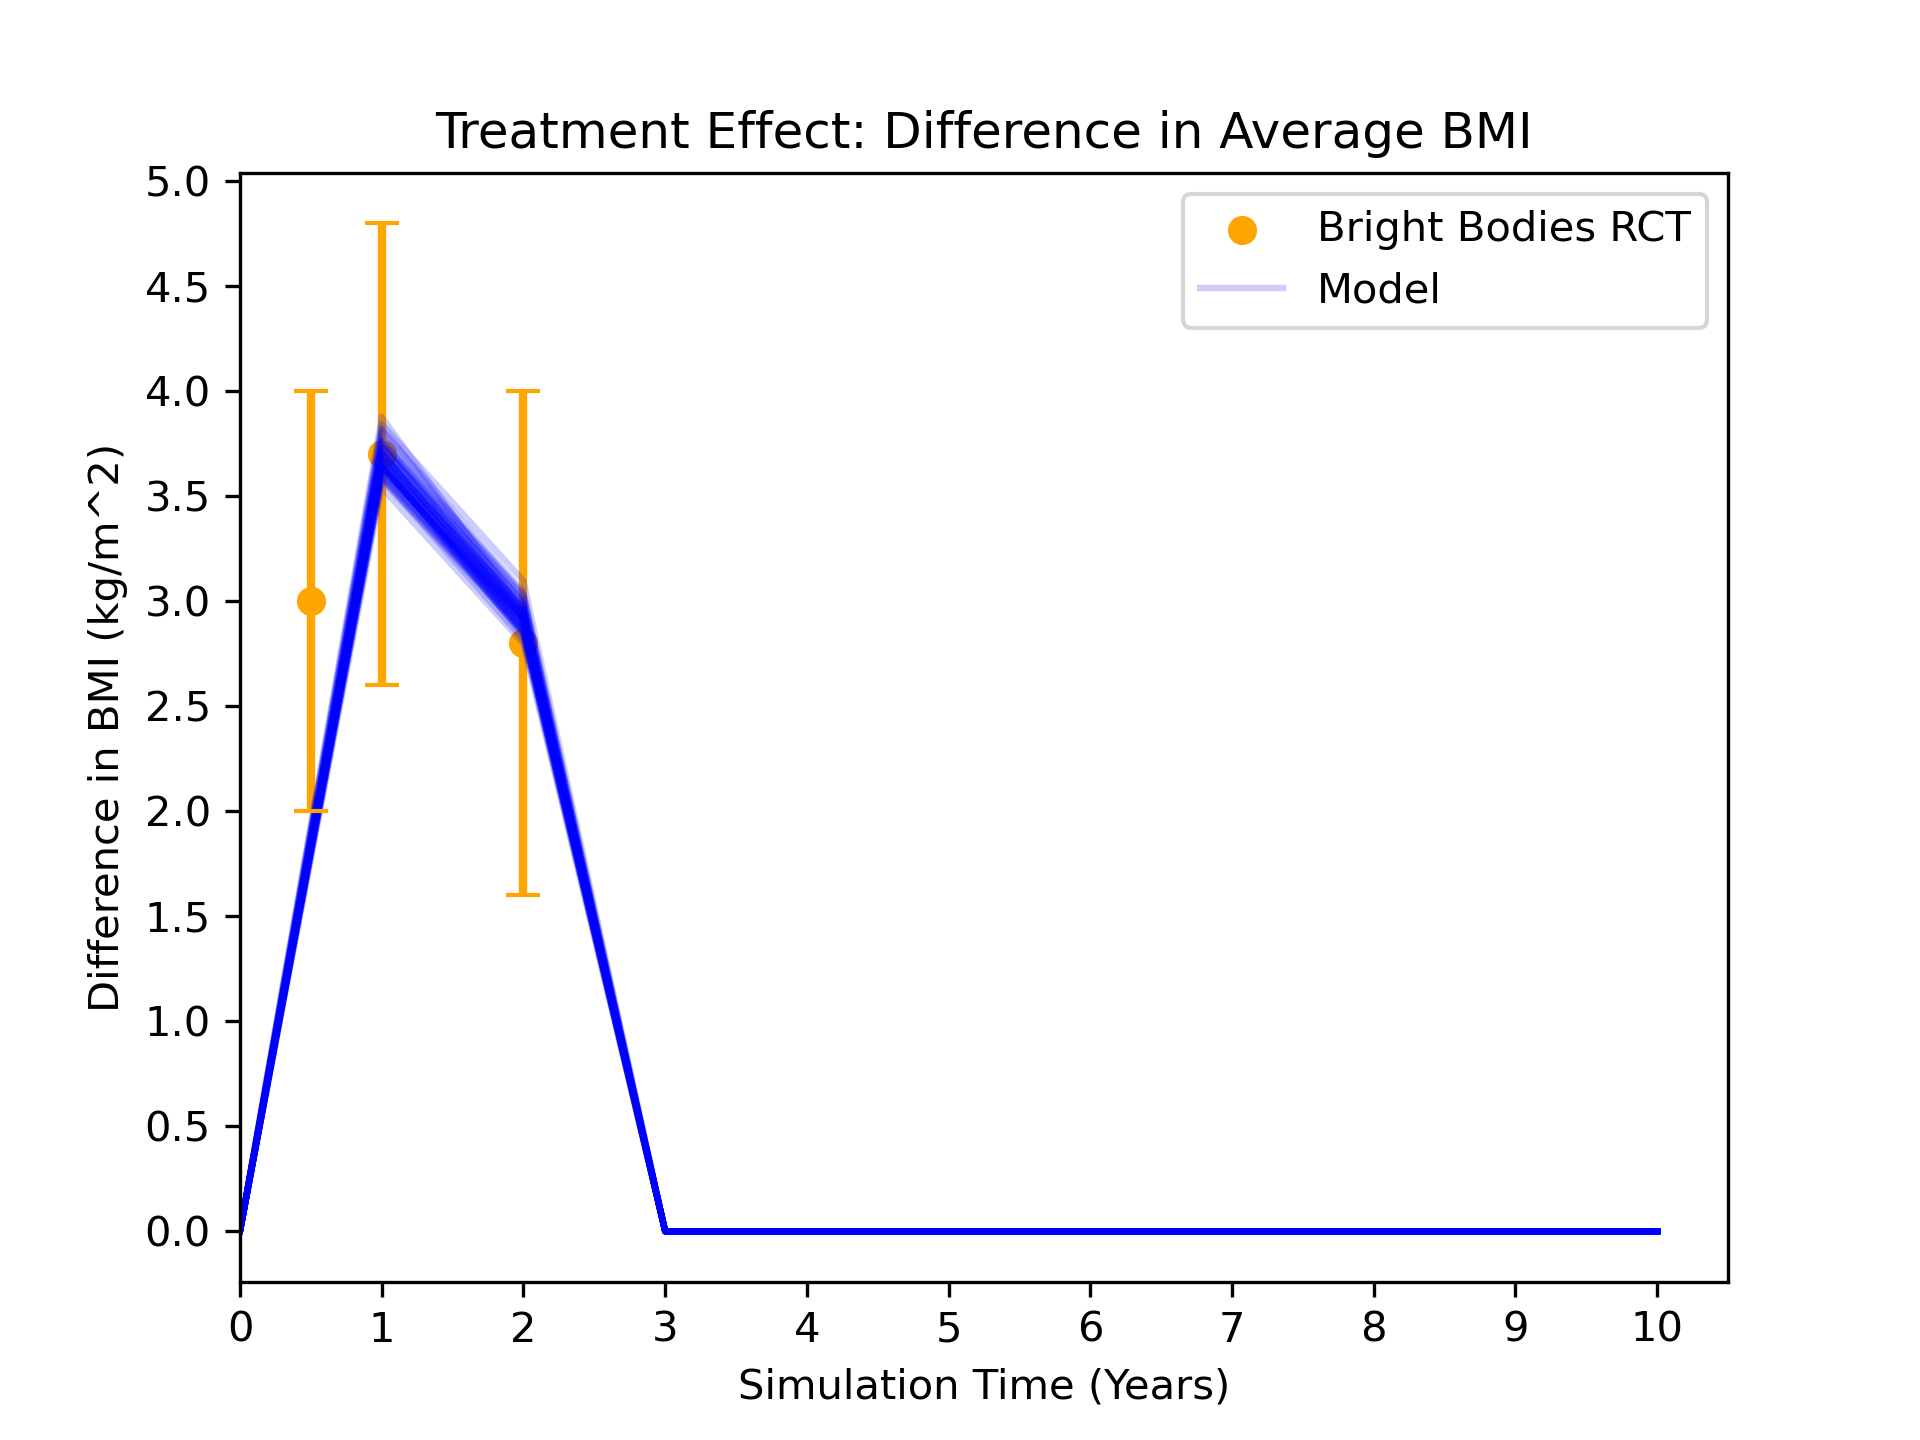
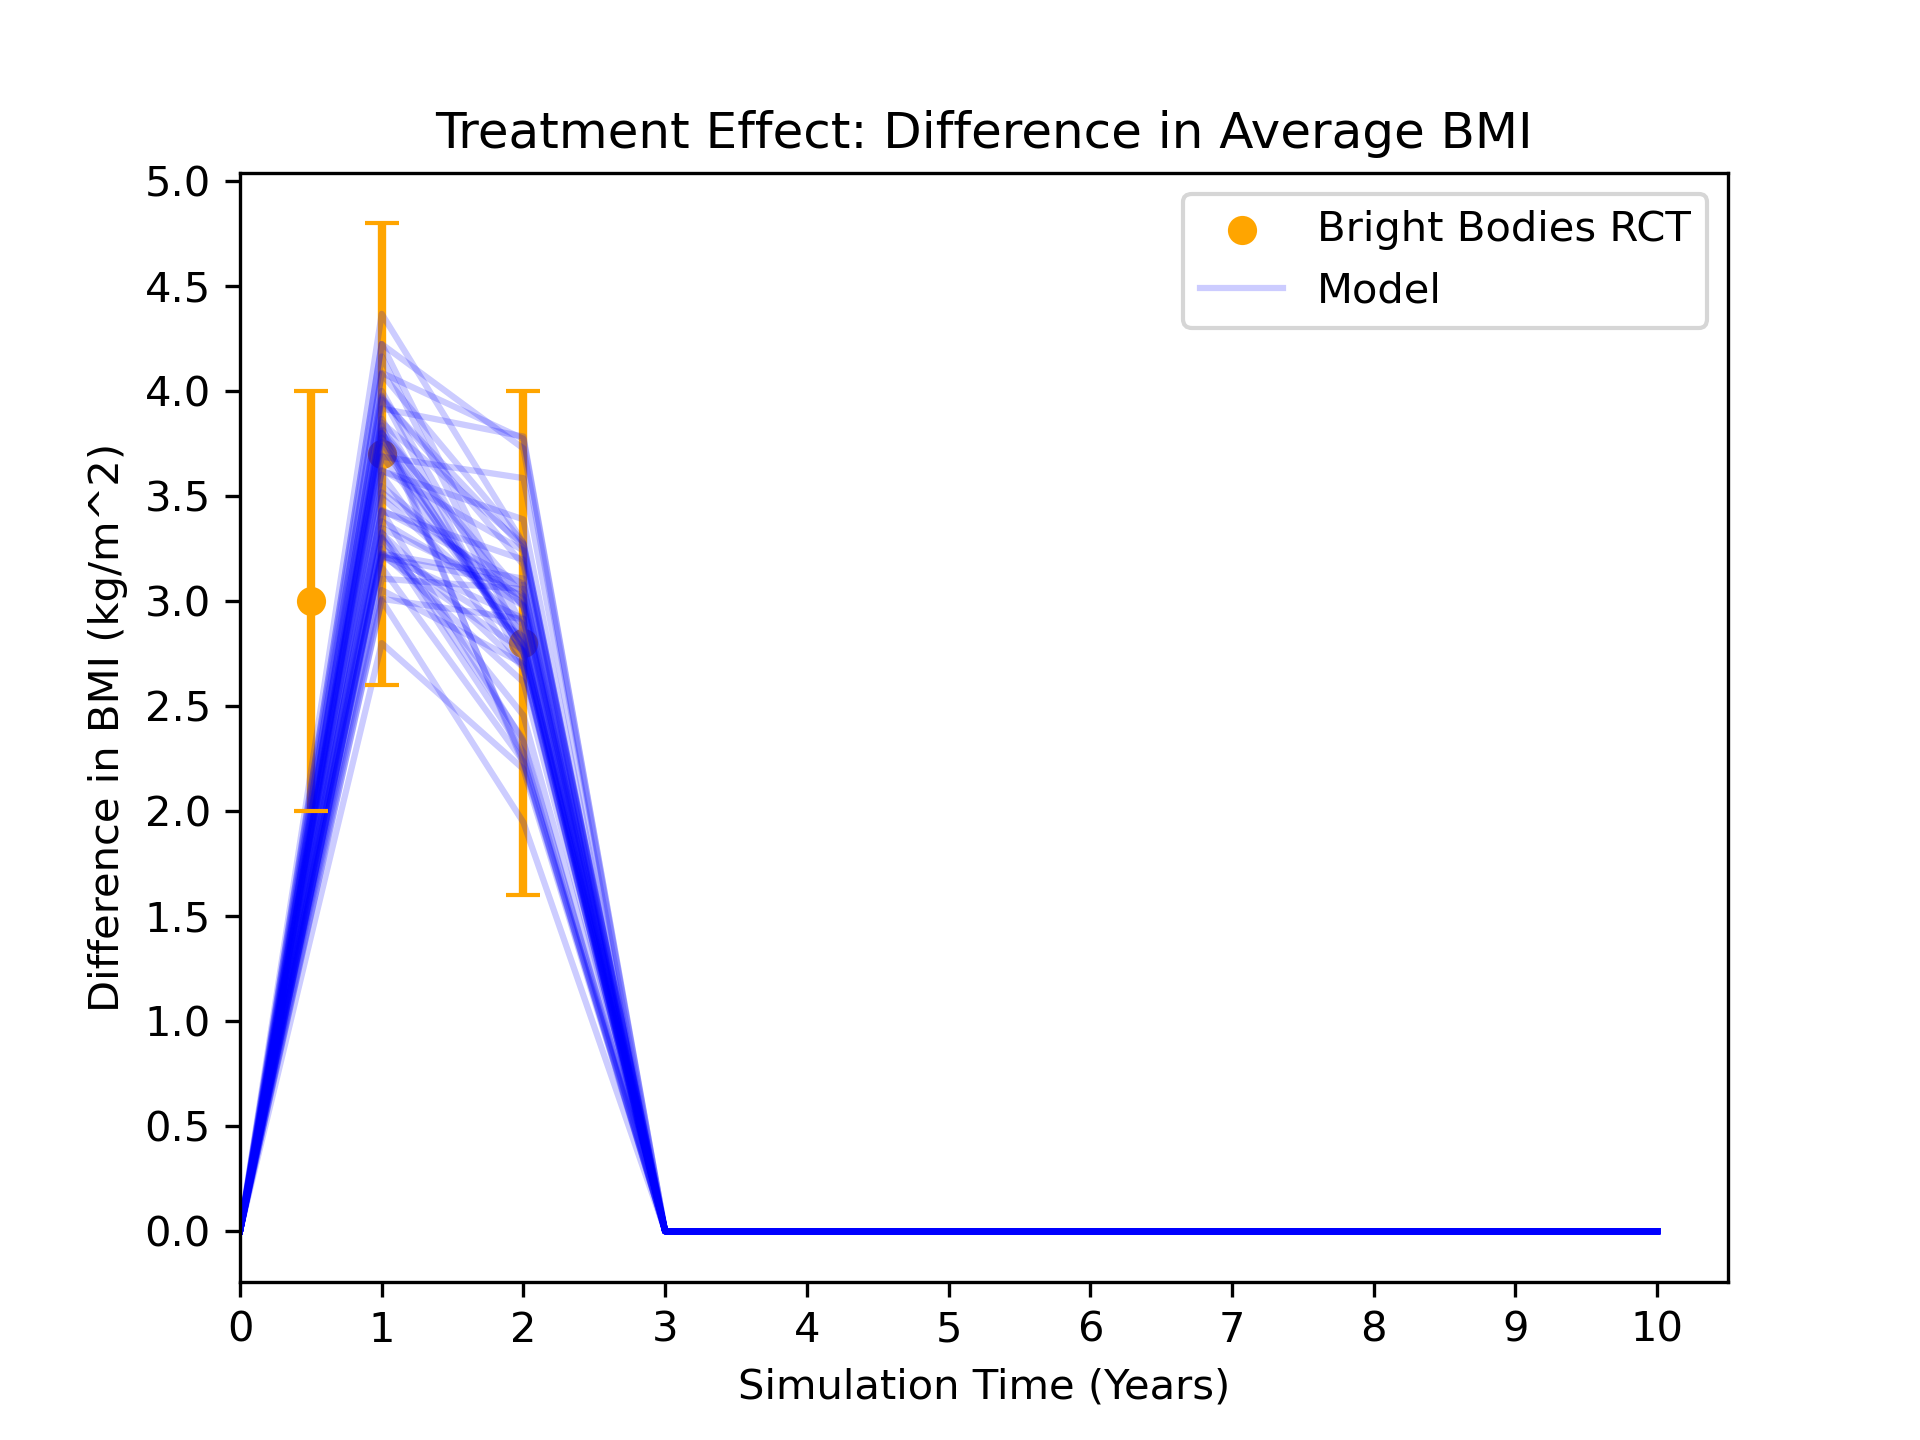
parameters done

Changed region(s): [[0.125, 0.2188, 0.3438, 0.8125]]

diff --git a/source/ModelParameters.py b/source/ModelParameters.py
@@ -36,37 +36,16 @@ class Parameters:
         self.costAbove95thP = 0
         self.costBelow95thP = 0
         self.costPerUnitBMIAdultP = 0
-
-        # intervention multipliers to reduce BMI over time
-        self.interventionMultipliers = []
-        if intervention == D.Interventions.BRIGHT_BODIES:
-
-            if maintenance_scenario == D.EffectMaintenance.FULL:
-                self.interventionMultipliers = [1.0, D.multBBYear1, D.multBBYear2]
-                for i in range(10):
-                    self.interventionMultipliers.append(D.multBBYear2)
-
-            elif maintenance_scenario == D.EffectMaintenance.NONE:
-                self.interventionMultipliers = [1.0, D.multBBYear1, D.multBBYear2]
-                for i in range(10):
-                    self.interventionMultipliers.append(D.multCC)
-
-            elif maintenance_scenario == D.EffectMaintenance.DEPREC:
-                self.interventionMultipliers = [1.0, D.multBBYear1, D.multBBYear2]
-                for i in range(10):
-                    deprec_difference = D.multCC - D.multBBYear2
-                    deprec_value = deprec_difference / 8
-                    deprec_multiplier = D.multBBYear2 + (deprec_value * i)
-                    self.interventionMultipliers.append(deprec_multiplier)
-
-        else: # under control
-            self.interventionMultipliers = [1]
-            for i in range(10):
-                self.interventionMultipliers.append(D.multCC)
+        self.interventionMultipliers = [] # multipliers to adjust BMI trajectories
 
 
 class CostParamRVGs:
+    # class to contain the random variate generators of cost parameters
+
     def __init__(self, dict_of_cost_parameters):
+        """
+        :param dict_of_cost_parameters: dictionary of cost parameters
+        """
 
         self.dictOfRVGs = {}
         for key, mean_stdev in dict_of_cost_parameters.items():
@@ -83,16 +62,54 @@ class CostParamRVGs:
                 self.dictOfRVGs[key] = RVGs.Constant(value=0)
 
     def get_sample(self, cost_item_name, rng):
-
+        """
+        :param cost_item_name: name of the cost item to get a sample for
+        :param rng: random number generator
+        :return: a sample from the distribution of the cost item specified
+        """
         return self.dictOfRVGs[cost_item_name].sample(rng)
 
     def get_total(self, rng):
-
+        """
+        :param rng: random number generator
+        :return: sum of samples from all cost items
+        """
         total = 0
         for key, rvg in self.dictOfRVGs.items():
             total += rvg.sample(rng)
 
         return total
+
+
+class MultiplierParamRVGs:
+    # class to contain the random variate generators of multiplier parameters to adjust BMI trajectories
+
+    def __init__(self, dict_of_cost_parameters):
+        """
+        :param dict_of_cost_parameters: dictionary of cost parameters
+        """
+
+        self.dictOfRVGs = {}
+        for key, mean_stdev in dict_of_cost_parameters.items():
+
+            # fit a log-normal distribution (only if mean > 0)
+            if mean_stdev[0] > 0:
+                fit_output = RVGs.LogNormal.fit_mm(mean=mean_stdev[0], st_dev=mean_stdev[1])
+                # store the log-normal RVG
+                self.dictOfRVGs[key] = RVGs.LogNormal(mu=fit_output["mu"],
+                                                      loc=0,
+                                                      sigma=fit_output["sigma"])
+            else:
+                # use a constant
+                self.dictOfRVGs[key] = RVGs.Constant(value=0)
+
+    def get_sample(self, multiplier_name, rng):
+        """
+        :param multiplier_name: name of the multiplier to get a sample for
+        :param rng: random number generator
+        :return: a sample from the distribution of the multiplier specified
+        """
+        return self.dictOfRVGs[multiplier_name].sample(rng)
 
 
 class ParamGenerator:
@@ -104,25 +121,64 @@ class ParamGenerator:
         # get BMI trajectories
         self.trajectories = T.get_trajectories()
 
+        # make dictionaries of RVGs for multipliers to adjust trajectories
+        self.multiplierRVGs = MultiplierParamRVGs(
+            dict_of_cost_parameters=Data.DICT_MULTIPLIERS
+        )
+
         # make dictionaries of RVGs for Bright Bodies cost items
         if intervention == D.Interventions.BRIGHT_BODIES:
             self.interventionCostParamRVGs = CostParamRVGs(
-                dict_of_cost_parameters=Data.DICT_COST_BB)
+                dict_of_cost_parameters=Data.DICT_COST_BB
+            )
 
         # make dictionaries of RVGs for Control cost items
         elif intervention == D.Interventions.CONTROL:
             self.interventionCostParamRVGs = CostParamRVGs(
-                dict_of_cost_parameters=Data.DICT_COST_CONTROL)
+                dict_of_cost_parameters=Data.DICT_COST_CONTROL
+            )
 
         # make dictionaries of RVGs for health care expenditure cost items
         self.hcExpenditureParamRVGs = CostParamRVGs(
-            dict_of_cost_parameters=Data.DICT_HC_EXP)
+            dict_of_cost_parameters=Data.DICT_HC_EXP
+        )
 
     def get_new_parameters(self, rng):
 
         param = Parameters(trajectories=self.trajectories,
                            intervention=self.intervention,
                            maintenance_scenario=self.maintenance_scenario)
+
+        # find multipliers to adjust trajectories
+        m_bb1 = self.multiplierRVGs.get_sample(multiplier_name='BB Year 1', rng=rng)
+        m_bb2 = self.multiplierRVGs.get_sample(multiplier_name='BB Year 2', rng=rng)
+        m_control = self.multiplierRVGs.get_sample(multiplier_name='Control', rng=rng)
+
+        # find multipliers to adjust BMI trajectories under the Bright Bodies intervention
+        if self.intervention == D.Interventions.BRIGHT_BODIES:
+
+            param.interventionMultipliers = [1.0, m_bb1, m_bb2]
+
+            if self.maintenance_scenario == D.EffectMaintenance.FULL:
+                for i in range(int(D.SIM_DURATION)):
+                    param.interventionMultipliers.append(m_bb2)
+
+            elif self.maintenance_scenario == D.EffectMaintenance.NONE:
+                for i in range(int(D.SIM_DURATION)):
+                    param.interventionMultipliers.append(m_control)
+
+            elif self.maintenance_scenario == D.EffectMaintenance.DEPREC:
+                deprec_difference = m_control - m_bb2
+                deprec_value = deprec_difference / 8
+                for i in range(int(D.SIM_DURATION)):
+                    deprec_multiplier = m_bb2 + (deprec_value * i)
+                    param.interventionMultipliers.append(deprec_multiplier)
+
+        # find multipliers to adjust BMI trajectories under the Control
+        else:
+            param.interventionMultipliers = [1.0]
+            for i in range(10):
+                param.interventionMultipliers.append(m_control)
 
         # sample health care expenditure items
         param.costAbove95thP = self.hcExpenditureParamRVGs.get_sample(

diff --git a/source/MultiCohortClasses.py b/source/MultiCohortClasses.py
@@ -67,6 +67,9 @@ class MultiCohort:
         self.multiSimOutputs.calculate_summary_stats()
 
     def __populate_parameter_sets(self, intervention, maintenance_scenario):
+        """
+        populates parameters for the specified intervention and effect maintenance assumption
+        """
 
         # create a parameter generator
         param_generator = ParamGenerator(intervention=intervention,
@@ -145,35 +148,14 @@ class MultiSimOutputs:
         self.cohortHealthCareExpenditure.append(cohort_hc_expenditure)
         self.aveAnnualIndividualHCExpenditure.append(cohort_hc_expenditure/D.POP_SIZE/D.SIM_DURATION)
 
-        # cohort_expenditure = sum(simulated_cohort.simOutputs.annualCohortHCExpenditures)
-        # # average cost per person (of intervention/control)
-        # average_intervention_cost_per_person = cohort_intervention_cost/D.POP_SIZE
-        # average_expenditure_per_person = cohort_expenditure/D.POP_SIZE
-        #
-        #
-        # # EXPENDITURE
-        #
-        # # total expenditure over 10 years (for cohort) ~700,000
-        # cohort_10yr_expenditure = sum(simulated_cohort.simOutputs.annualCohortHCExpenditures)
-        # # average expenditure per year (over 10 years) ~70,000
-        # cohort_avg_expenditure = cohort_10yr_expenditure/D.SIM_DURATION
-        # # total expenditure per person over 10 years ~7700
-        # individual_10yr_expenditure = cohort_10yr_expenditure/D.N_CHILDREN_BB
-        # # average expenditure per year PER PERSON (over 10 years) ~770
-        # individual_avg_expenditure = cohort_avg_expenditure/D.N_CHILDREN_BB
-        # # store annual average individual expenditure
-        # self.aveAnnualIndividualHCExpenditure.append(individual_avg_expenditure)
-        # # store total expenditure of cohort for 10 years
-        # self.cohortHealthCareExpenditure.append(cohort_10yr_expenditure)
-        # # store individual expenditure over 10 years
-        # self.individualTenYearExpenditure.append(individual_10yr_expenditure)
-
     def calculate_summary_stats(self):
 
-        self.statEffect = Stat.SummaryStat(name='', data=self.effects)
-        self.statCohortCost = Stat.SummaryStat(name='', data=self.cohortCosts)
-        self.statCohortInterventionCost = Stat.SummaryStat(name='', data=self.cohortInterventionCosts)
-        self.statCohortHCExpenditure = Stat.SummaryStat(name='', data=self.cohortHealthCareExpenditure)
+        self.statEffect = Stat.SummaryStat(name='Effect', data=self.effects)
+        self.statCohortCost = Stat.SummaryStat(name='Cohort cost', data=self.cohortCosts)
+        self.statCohortInterventionCost = Stat.SummaryStat(
+            name='Cohort intervention cost', data=self.cohortInterventionCosts)
+        self.statCohortHCExpenditure = Stat.SummaryStat(
+            name='Cohort health care expendtirue', data=self.cohortHealthCareExpenditure)
 
     def get_mean_interval_change_in_bmi(self, year, deci=None):
         """

diff --git a/InputData.py b/InputData.py
@@ -15,18 +15,10 @@ CURRENT_YEAR = 2020
 INFLATION = 0.02
 DISCOUNT = 0.03
 
-# Multipliers:
-# BB Year 1 reduction
-multBBYear1 = 0.925
-# BB Year 2 reduction
-multBBYear2 = 0.951
-# CC Multiplier
-multCC = (1.05 + 1.048) / 2
-
-
 # trace
 TRACE_ON = False       # Set to true to trace a simulation replication
 DECI = 5               # the decimal point to round the numbers to in the trace file
+
 
 # Maintenance of Effect Levels:
 class EffectMaintenance(Enum):

diff --git a/source/Data.py b/source/Data.py
@@ -1,6 +1,16 @@
 
+# TODO: Sydney, are these years correct? I used these to inflate cost.
+# to inflate cost estimates
 YEAR_BB_STUDY = 2007
 YEAR_HCEXP_STUDY = 2010
+
+# multipliers to adjust BMI trajectories
+DICT_MULTIPLIERS = {
+    'Control': [1.049, 0.01],
+    'BB Year 1': [0.925, 0.01],
+    'BB Year 2': [0.951, 0.01]
+}
+
 
 # dictionary of cost items for Bright Bodies
 # each element is a list of [mean, stDev]

diff --git a/SimulateAnIntervention.py b/SimulateAnIntervention.py
@@ -2,7 +2,7 @@ import InputData as D
 from source import Support as S, MultiCohortClasses as MultiCls
 
 # SIMULATE ONE INTERVENTION UNDER A GIVEN SCENARIO OF EFFECT MAINTENANCE
-INTERVENTION = D.Interventions.BRIGHT_BODIES
+INTERVENTION = D.Interventions.CONTROL
 EFFECT_MAINTENANCE = D.EffectMaintenance.DEPREC
 
 # this line is needed to avoid errors that occur on Windows computers when running the model in parallel
